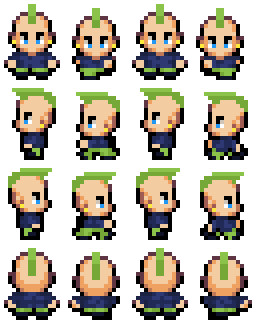
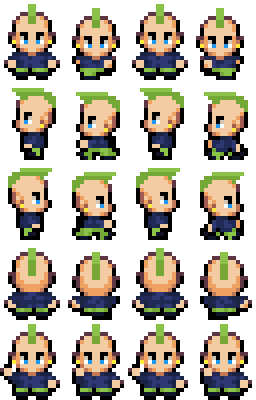
Added waving animation

diff --git a/assets/js/script.js b/assets/js/script.js
@@ -21,6 +21,7 @@ const KEYS = {
     arrowDown: {isPressed: false},
     arrowLeft: {isPressed: false},
     arrowRight: {isPressed: false},
+    k: {isPressed: false},
 
     w: {isPressed: false},
     s: {isPressed: false},
@@ -82,6 +83,12 @@ function handleInput(keys, map) {
     if (keys.arrowRight.isPressed && (player1.x + player1.width) < CANVAS_WIDTH - borders.right) {
         player1.move(5, 0, true);
         player1.frameY = 2
+    }
+    if (keys.k.isPressed && player1.y > borders.top) {
+        player1.framesPerSecond = 100;
+        player1.move(0, 0, true);
+        player1.frameY = 4
+        
     }
     // player 2
     if (keys.w.isPressed && player2.y > borders.top) {
@@ -160,6 +167,9 @@ window.addEventListener('keydown', (event) => {
     } else if (event.key === "ArrowRight") {
         // player1.move(1, 0);
         KEYS.arrowRight.isPressed = true;
+    } else if (event.key === "k") {
+        // player1.move(1, 0);
+        KEYS.k.isPressed = true;
     }
 
     // Player 2
@@ -200,6 +210,12 @@ window.addEventListener('keyup', (event) => {
         // player1.move(1, 0);
         KEYS.arrowRight.isPressed = false;
         player1.move(0, 0, false)
+    } else if (event.key === "k") {
+        // player1.move(1, 0);
+        KEYS.k.isPressed = false;
+        player1.move(0, 0, false)
+        player1.frameY = 0;
+        
     }
 
     // Player 2
